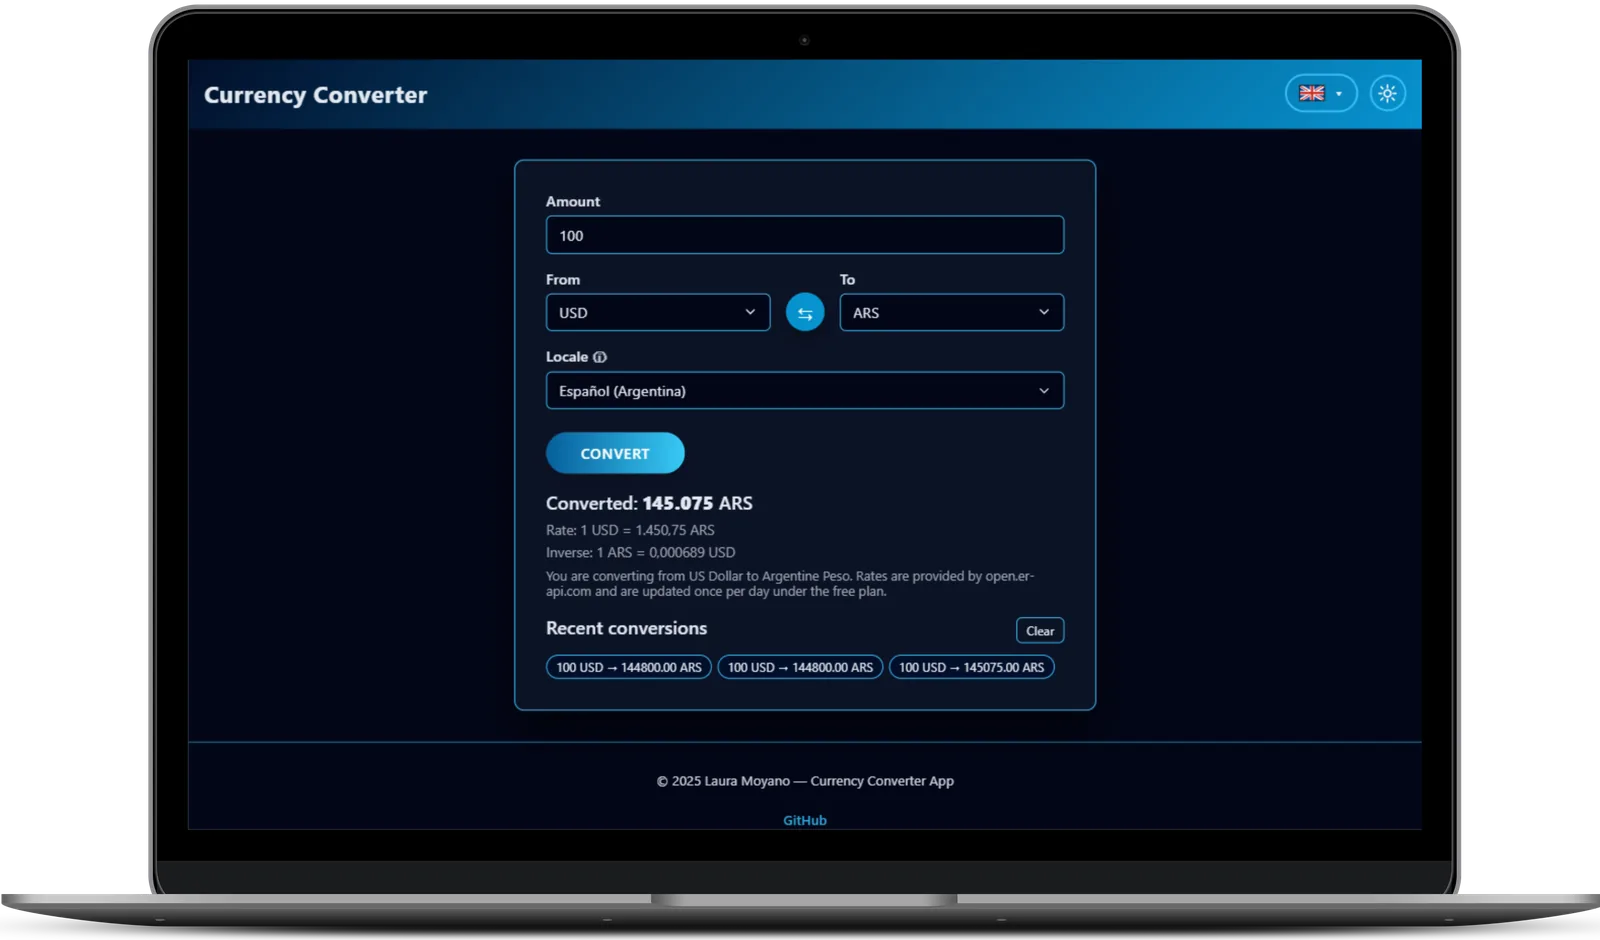
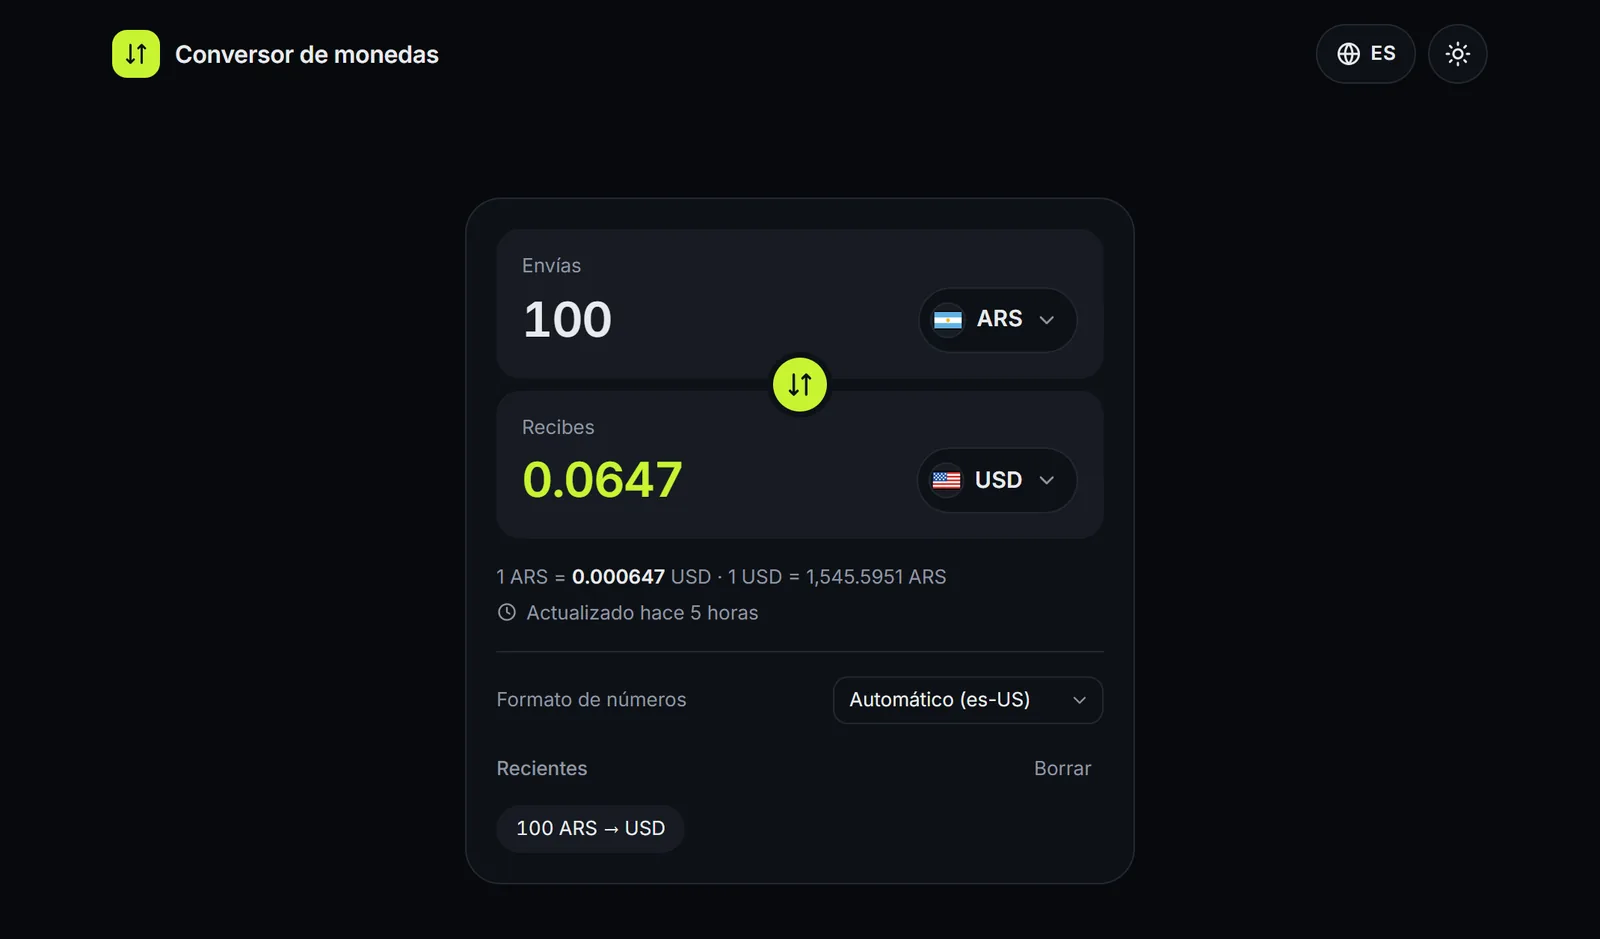
content: add Esmalte Club and update Glamour Studio and Currency Converter projects

diff --git a/src/i18n.ts b/src/i18n.ts
@@ -224,13 +224,19 @@ export const translations = {
                 name: 'Currency Converter App',
                 role: 'Front End Developer',
                 description:
-                    'Svelte application to convert currencies with real-time rates, dark/light mode, six languages and conversion history. Focused on performance, accessibility and an intuitive user experience.'
+                    'Converts as you type, with 160+ searchable currencies, six languages, light/dark mode and conversion history. Redesigned in Svelte 5 with runes, an accessible keyboard-driven currency picker and unit-tested logic.'
             },
             'glamour-studio': {
-                name: 'Glamour Studio – Beauty & Wellness',
-                role: 'Front End Developer',
+                name: 'Glamour Studio — Beauty Salon',
+                role: 'Designer & Front End Developer',
                 description:
-                    'Single-page website for a beauty studio, built with React and TypeScript. Includes services, team, testimonials and an online booking section, with a fully responsive layout.'
+                    'Dark neobrutalist landing page for a fictional beauty salon. Its booking form only offers available time slots for the chosen day and builds the WhatsApp request; the booking logic is unit-tested.'
+            },
+            'esmalte-club': {
+                name: 'Esmalte Club — Nail Bar',
+                role: 'Designer & Front End Developer',
+                description:
+                    'Editorial landing page in white, pink and black for a fictional nail bar, with a menu-style price list, mosaic gallery and FAQ. Built with Astro and almost no JavaScript, deployed automatically with GitHub Actions.'
             },
             'rancho-linz': {
                 name: 'Rancho Linz – Phytotherapy Brand',
@@ -498,13 +504,19 @@ export const translations = {
                 name: 'App Conversor de Monedas',
                 role: 'Desarrolladora Front End',
                 description:
-                    'Aplicación en Svelte para convertir monedas con tipos de cambio en tiempo real, modo claro/oscuro, seis idiomas e historial de conversiones. Enfocada en rendimiento, accesibilidad y una UX intuitiva.'
+                    'Convierte mientras escribís, con más de 160 monedas y buscador, seis idiomas, modo claro/oscuro e historial. Rediseñada en Svelte 5 con runes, un selector de monedas accesible por teclado y la lógica cubierta con tests unitarios.'
             },
             'glamour-studio': {
-                name: 'Glamour Studio – Estética & Bienestar',
-                role: 'Desarrolladora Front End',
+                name: 'Glamour Studio — Salón de belleza',
+                role: 'Diseñadora y Desarrolladora Front End',
                 description:
-                    'Página web para un estudio de belleza desarrollada con React y TypeScript. Incluye secciones de servicios, equipo, testimonios y turnos online, con diseño totalmente responsive.'
+                    'Landing neobrutalista oscura para un salón de belleza ficticio. El formulario de turnos solo ofrece horarios disponibles para el día elegido y arma el pedido por WhatsApp; la lógica de reservas tiene tests unitarios.'
+            },
+            'esmalte-club': {
+                name: 'Esmalte Club — Nail bar',
+                role: 'Diseñadora y Desarrolladora Front End',
+                description:
+                    'Landing editorial en blanco, rosa y negro para un nail bar ficticio, con carta de precios en formato menú, galería en mosaico y preguntas frecuentes. Hecha en Astro casi sin JavaScript y publicada automáticamente con GitHub Actions.'
             },
             'rancho-linz': {
                 name: 'Rancho Linz – Fitoterapia',

diff --git a/src/data/profile.ts b/src/data/profile.ts
@@ -93,13 +93,19 @@ export const projects: ProjectEntry[] = [
     id: 'currency-converter',
     link: 'https://laura-m-stack.github.io/Currency-Converter-App/',
     image: 'projects/currency-converter.webp',
-    tech: ['Svelte', 'TypeScript', 'Sass']
+    tech: ['Svelte 5', 'TypeScript', 'Vite', 'Vitest']
   },
   {
     id: 'glamour-studio',
     link: 'https://laura-m-stack.github.io/glamour-studio/',
     image: 'projects/glamour-studio.webp',
-    tech: ['React', 'TypeScript', 'Vite', 'SCSS']
+    tech: ['React', 'TypeScript', 'Vite', 'Framer Motion', 'Vitest']
+  },
+  {
+    id: 'esmalte-club',
+    link: 'https://laura-m-stack.github.io/esmalte-club/',
+    image: 'projects/esmalte-club.webp',
+    tech: ['Astro', 'TypeScript', 'CSS', 'GitHub Actions']
   },
   {
     id: 'rancho-linz',
